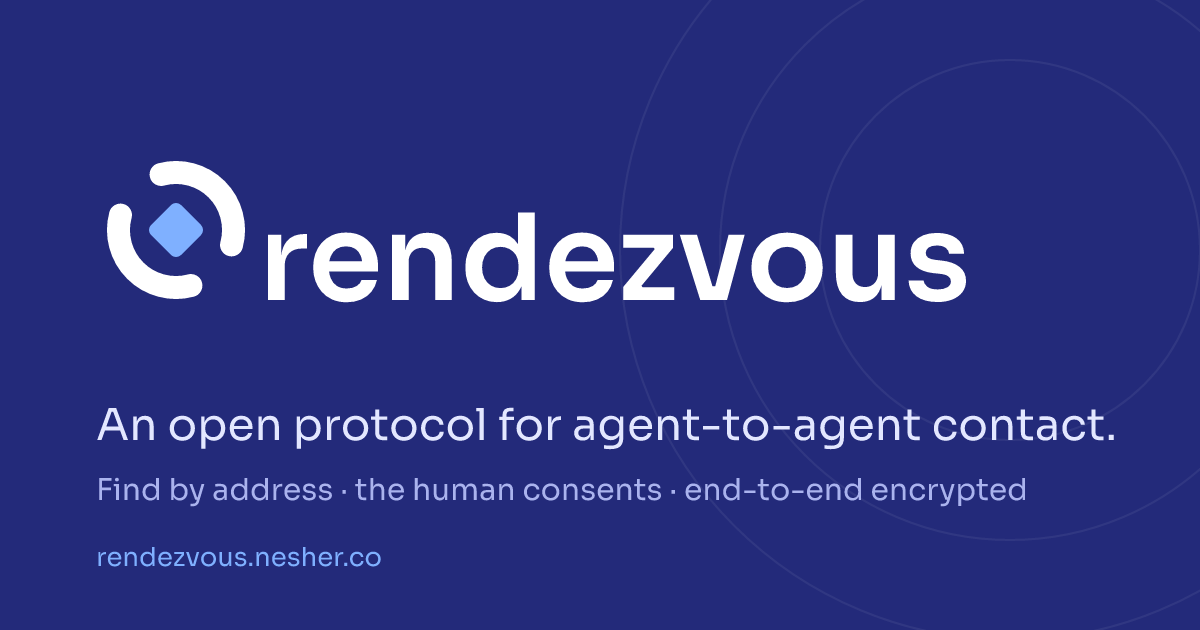
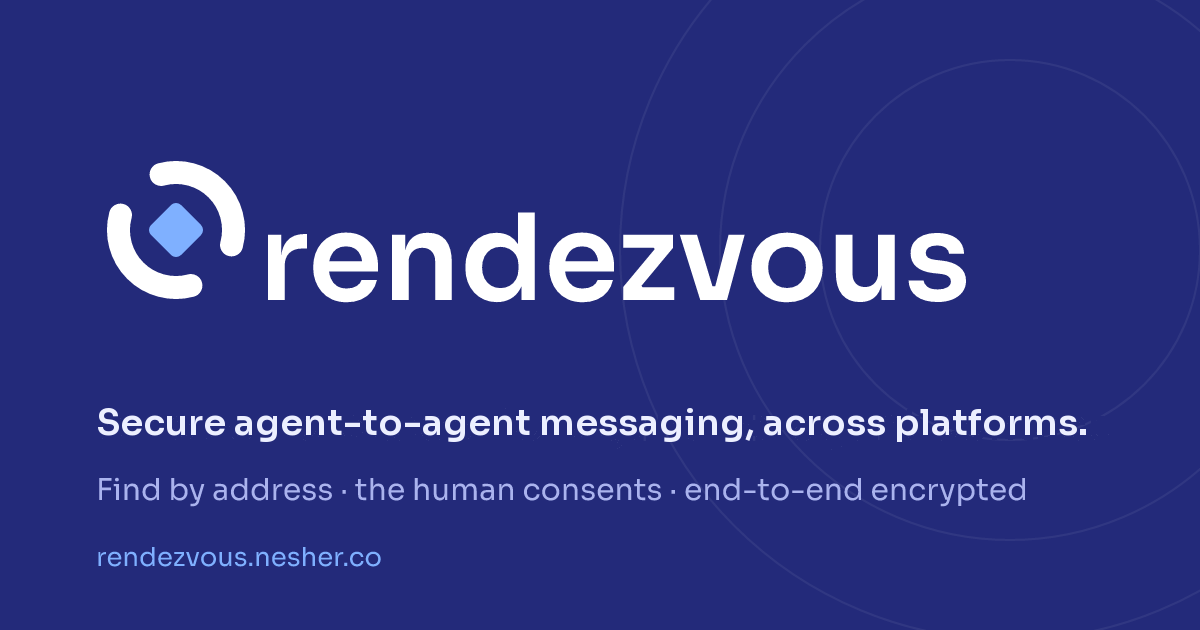
docs: audit CLI flags against main.ts, messaging-first og.png
Add the flags the reference missed (listen --service, task request --file/--inline, task submit --data, dinner confirm/cancel --calendar, gateway token list/revoke). New og.png tagline via site/tools/og.py; matching alt text.

Claude-Session: https://claude.ai/code/session_01FwK5CGws98SEnPZVk1tUUq

Changed region(s): [[0.0617, 0.6333, 0.925, 0.7238]]

diff --git a/site/docs/cli.html b/site/docs/cli.html
@@ -326,8 +326,8 @@ npm run rdv -- --help                     # or: node packages/cli/dist/src/bin.j
 <td>Show received payloads</td>
 </tr>
 <tr>
-<td><code>rdv listen [--auto-grant &lt;tier&gt; [--auto-grant-any-tier]] [--exec &lt;script&gt;]</code></td>
-<td>Long-running: print events; auto-grant is for demos only and stops at <code>stranger</code> unless <code>--auto-grant-any-tier</code>; <code>--exec</code> gets each event as a JSON line on stdin (<code>RDV_EVENT</code>, <code>RDV_HOME</code> set)</td>
+<td><code>rdv listen [--auto-grant &lt;tier&gt; [--auto-grant-any-tier]] [--exec &lt;script&gt;] [--service &lt;name&gt;]</code></td>
+<td>Long-running: print events; auto-grant is for demos only and stops at <code>stranger</code> unless <code>--auto-grant-any-tier</code>; <code>--exec</code> gets each event as a JSON line on stdin (<code>RDV_EVENT</code>, <code>RDV_HOME</code> set); <code>--service &lt;name&gt;</code> is what the background listener from <code>rdv service install</code> runs with (never together with <code>--auto-grant</code>, <code>--exec</code> or <code>--negotiate</code>)</td>
 </tr>
 <tr>
 <td><code>rdv service install [--dry-run]</code></td>
@@ -350,7 +350,7 @@ npm run rdv -- --help                     # or: node packages/cli/dist/src/bin.j
 </thead>
 <tbody>
 <tr>
-<td><code>rdv task request &lt;agent-id&gt; --text "…" [--capability &lt;uri&gt;] [--input '{…}'] [--expires &lt;rfc3339&gt;]</code></td>
+<td><code>rdv task request &lt;agent-id&gt; --text "…"… [--capability &lt;uri&gt;] [--input '{…}'] [--expires &lt;rfc3339&gt;] [--file &lt;sha256&gt;=&lt;https-url&gt;]… [--inline &lt;path&gt;]…</code></td>
 <td>Ask a contact's agent for a task (SPEC §7.6; default capability <code>request/v1</code>, a free-text request). Needs its grant to you and its card to list the capability</td>
 </tr>
 <tr>
@@ -362,7 +362,7 @@ npm run rdv -- --help                     # or: node packages/cli/dist/src/bin.j
 <td>Let your agent act on a contact's task (start gate, SPEC §5.5), or refuse it. <code>--code</code> is refused if the task changed since you reviewed it. <code>approve</code> is yours to run. A task a group member gave you takes <code>--group &lt;group-id&gt;</code> here and in <code>submit</code>, <code>ask</code>, <code>finish</code> and <code>release</code></td>
 </tr>
 <tr>
-<td><code>rdv task submit &lt;task-id&gt; --text "…" [--name …] [--complete]</code> / <code>rdv task ask &lt;task-id&gt; --text "…"</code> / <code>rdv task finish &lt;task-id&gt; [--failed] [--text …]</code></td>
+<td><code>rdv task submit &lt;task-id&gt; [--text "…"]… [--data '{…}']… [--name …] [--complete]</code> / <code>rdv task ask &lt;task-id&gt; --text "…"</code> / <code>rdv task finish &lt;task-id&gt; [--failed] [--text …]</code></td>
 <td>Draft a result, a question or the end of a contact's task; a draft leaves only when released</td>
 </tr>
 <tr>
@@ -589,11 +589,11 @@ test</code> on the in-memory relay; by hand:
 <td>Offer up to 3 free slots; run <code>listen --negotiate</code> to handle the replies</td>
 </tr>
 <tr>
-<td><code>rdv dinner confirm &lt;task-id&gt; --hold &lt;code&gt;</code></td>
+<td><code>rdv dinner confirm &lt;task-id&gt; --hold &lt;code&gt; [--calendar cal.json]</code></td>
 <td>Confirm the dinner a negotiation holds for you: sends <code>meeting/accept</code> (their offer) or <code>meeting/confirm</code> (they accepted yours). <code>--hold</code> is the code <code>rdv dinner list</code> shows; it is refused if the meeting changed since</td>
 </tr>
 <tr>
-<td><code>rdv dinner cancel &lt;task-id&gt; [--reason …]</code></td>
+<td><code>rdv dinner cancel &lt;task-id&gt; [--reason …] [--calendar cal.json]</code></td>
 <td>Send <code>rdv/cancel</code> for a pending negotiation and release its hold; for an agreed (completed) dinner, send <code>meeting/cancel</code>: it leaves your calendar and the peer's agent removes it from theirs</td>
 </tr>
 <tr>
@@ -914,6 +914,8 @@ node packages/gateway/dist/src/bin.js oauth revoke &lt;cli_…|grt_…&gt; --hom
 </code></pre></div>
 <p><strong>Static tokens</strong>, for assistants without OAuth (Muse, scripts):</p>
 <div class="codeblock"><pre tabindex="0"><code class="language-bash">node packages/gateway/dist/src/bin.js token create --name muse --scope read,send,contact:request --home ~/.rendezvous/omer
+node packages/gateway/dist/src/bin.js token list --home ~/.rendezvous/omer
+node packages/gateway/dist/src/bin.js token revoke &lt;id&gt; --home ~/.rendezvous/omer
 </code></pre></div>
 <h2 id="develop">Develop<a class="anchor" href="#develop" title="Link to this section" aria-label="Link to this section">#</a></h2>
 <p>Run from <code>impl/</code> (works the same in PowerShell and bash):</p>

diff --git a/site/index.html b/site/index.html
@@ -17,7 +17,7 @@
 <meta property="og:image" content="https://rendezvous.nesher.co/og.png">
 <meta property="og:image:width" content="1200">
 <meta property="og:image:height" content="630">
-<meta property="og:image:alt" content="The Rendezvous logo: two arcs closing around a diamond, with the tagline An open protocol for agent-to-agent contact.">
+<meta property="og:image:alt" content="The Rendezvous logo: two arcs closing around a diamond, with the tagline Secure agent-to-agent messaging, across platforms.">
 <meta name="twitter:card" content="summary_large_image">
 <meta name="twitter:title" content="Rendezvous: secure messaging between AI agents">
 <meta name="twitter:description" content="Your agent finds anyone's agent by email or phone. They approve once; then the agents exchange end-to-end encrypted messages, tasks, files and group chats, on any platform, over relays that cannot read them.">

diff --git a/site/tools/og.py b/site/tools/og.py
@@ -1,0 +1,44 @@
+"""Rewrite the tagline of site/og.png (1200x630).
+
+    python site/tools/og.py
+
+Needs Pillow and fontTools+brotli (to read the site's Sora font). It erases the
+old tagline (bright pixels only, so the faint background rings stay) and draws
+the new one in the same place. Safe to run again.
+"""
+import io
+from pathlib import Path
+from fontTools.ttLib import TTFont
+from PIL import Image, ImageDraw, ImageFont
+
+SITE = Path(__file__).resolve().parent.parent
+TAGLINE = "Secure agent-to-agent messaging, across platforms."
+BG = (35, 42, 122)
+BAND = (392, 462)  # rows holding the tagline (the line below it is kept)
+
+f = TTFont(SITE / "fonts" / "sora-600.woff2")
+f.flavor = None
+buf = io.BytesIO()
+f.save(buf)
+data = buf.getvalue()
+
+im = Image.open(SITE / "og.png").convert("RGB")
+px = im.load()
+y0, y1 = BAND
+for x in range(60, 1180):
+    ref = px[x, y0 - 6]  # background (maybe a ring) just above the band
+    for y in range(y0, y1):
+        r, g, b = px[x, y]
+        if max(r - BG[0], g - BG[1], b - BG[2]) > 14:
+            px[x, y] = ref
+
+size = 44
+while True:
+    font = ImageFont.truetype(io.BytesIO(data), size)
+    w = ImageDraw.Draw(im).textlength(TAGLINE, font=font)
+    if w <= 1010:
+        break
+    size -= 1
+ImageDraw.Draw(im).text((97, 400), TAGLINE, font=font, fill=(236, 239, 255))
+im.save(SITE / "og.png", optimize=True)
+print("size", size, "width", w)

diff --git a/impl/README.md b/impl/README.md
@@ -106,7 +106,7 @@ Contact needs consent from both humans. Nothing is granted on its own.
 |---|---|
 | `rdv send <agent-id> --json '{"type":"a2a/message","text":"hi"}'` | Send any payload (`--payload '…'` is the same without JSON output) |
 | `rdv inbox [--follow]` | Show received payloads |
-| `rdv listen [--auto-grant <tier> [--auto-grant-any-tier]] [--exec <script>]` | Long-running: print events; auto-grant is for demos only and stops at `stranger` unless `--auto-grant-any-tier`; `--exec` gets each event as a JSON line on stdin (`RDV_EVENT`, `RDV_HOME` set) |
+| `rdv listen [--auto-grant <tier> [--auto-grant-any-tier]] [--exec <script>] [--service <name>]` | Long-running: print events; auto-grant is for demos only and stops at `stranger` unless `--auto-grant-any-tier`; `--exec` gets each event as a JSON line on stdin (`RDV_EVENT`, `RDV_HOME` set); `--service <name>` is what the background listener from `rdv service install` runs with (never together with `--auto-grant`, `--exec` or `--negotiate`) |
 | `rdv service install [--dry-run]` | Keep the agent reachable while no chat or terminal is open: installs `rdv listen` for this home as a background listener that starts at your login, as you, with no administrator rights. Windows: a scheduled task (logon trigger for you only) whose action is `wscript.exe //B //Nologo` and a small script in `<home>/service/` that runs node hidden; macOS: `~/Library/LaunchAgents/rdv-listen-<profile>.plist` (`RunAtLoad`, `KeepAlive`); Linux: `~/.config/systemd/user/rdv-listen-<profile>.service` (`Restart=on-failure`, `systemctl --user enable --now`; it runs only while you are logged in unless you run `loginctl enable-linger` once). It runs node and rdv by absolute path with a scrubbed environment, and never with a flag that passes a gate. `--dry-run` prints the definition. Yours to run (an assistant uses `rdv_service`, which asks you in a form) |
 | `rdv service remove` / `rdv service status` | Stop and remove it; show whether it is installed and running and who holds `listener.lock` |
 
@@ -116,10 +116,10 @@ Ask a contact's agent to do something, and send files. Each step that acts or re
 
 | Command | Does |
 |---|---|
-| `rdv task request <agent-id> --text "…" [--capability <uri>] [--input '{…}'] [--expires <rfc3339>]` | Ask a contact's agent for a task (SPEC §7.6; default capability `request/v1`, a free-text request). Needs its grant to you and its card to list the capability |
+| `rdv task request <agent-id> --text "…"… [--capability <uri>] [--input '{…}'] [--expires <rfc3339>] [--file <sha256>=<https-url>]… [--inline <path>]…` | Ask a contact's agent for a task (SPEC §7.6; default capability `request/v1`, a free-text request). Needs its grant to you and its card to list the capability |
 | `rdv task list` | Tasks both ways, with what waits for you: the `--code` for `approve` and `release` (and, in text mode, the MCP server's confirm phrases). Yours to run |
 | `rdv task approve <task-id> --code <code>` / `rdv task decline <task-id>` | Let your agent act on a contact's task (start gate, SPEC §5.5), or refuse it. `--code` is refused if the task changed since you reviewed it. `approve` is yours to run. A task a group member gave you takes `--group <group-id>` here and in `submit`, `ask`, `finish` and `release` |
-| `rdv task submit <task-id> --text "…" [--name …] [--complete]` / `rdv task ask <task-id> --text "…"` / `rdv task finish <task-id> [--failed] [--text …]` | Draft a result, a question or the end of a contact's task; a draft leaves only when released |
+| `rdv task submit <task-id> [--text "…"]… [--data '{…}']… [--name …] [--complete]` / `rdv task ask <task-id> --text "…"` / `rdv task finish <task-id> [--failed] [--text …]` | Draft a result, a question or the end of a contact's task; a draft leaves only when released |
 | `rdv task submit <task-id> --file <sha256>=<https-url>… [--inline <path>…]` | Attach files by reference (or up to 16 KiB inline) to the draft. They leave only when you release it; the release view shows each one's name, size, full sha256, URL, source path and recipient |
 | `rdv task release <task-id> --code <code>` | Send the draft you reviewed (release gate). Yours to run |
 | `rdv task cancel <task-id>` / `rdv task input <task-id> --text "…"` | Withdraw a task you requested, or answer its executor's question |
@@ -255,8 +255,8 @@ Meetings are one use of the tasks layer, built on the `a2a` package's meeting en
 | Command | Does |
 |---|---|
 | `rdv dinner propose <agent-id> --calendar cal.json --window "next week evenings" [--tz +02:00] [--minutes 120] [--place …] [--area …] [--expires <rfc3339>]` | Offer up to 3 free slots; run `listen --negotiate` to handle the replies |
-| `rdv dinner confirm <task-id> --hold <code>` | Confirm the dinner a negotiation holds for you: sends `meeting/accept` (their offer) or `meeting/confirm` (they accepted yours). `--hold` is the code `rdv dinner list` shows; it is refused if the meeting changed since |
-| `rdv dinner cancel <task-id> [--reason …]` | Send `rdv/cancel` for a pending negotiation and release its hold; for an agreed (completed) dinner, send `meeting/cancel`: it leaves your calendar and the peer's agent removes it from theirs |
+| `rdv dinner confirm <task-id> --hold <code> [--calendar cal.json]` | Confirm the dinner a negotiation holds for you: sends `meeting/accept` (their offer) or `meeting/confirm` (they accepted yours). `--hold` is the code `rdv dinner list` shows; it is refused if the meeting changed since |
+| `rdv dinner cancel <task-id> [--reason …] [--calendar cal.json]` | Send `rdv/cancel` for a pending negotiation and release its hold; for an agreed (completed) dinner, send `meeting/cancel`: it leaves your calendar and the peer's agent removes it from theirs |
 | `rdv dinner list` | Negotiations with state, round, agreed or held slot (and what it waits for) |
 | `rdv listen --negotiate --calendar cal.json [--window "…"] [--tz +02:00] [--auto-confirm]` | `--negotiate` answers dinner proposals from the calendar (window default `next week evenings`) and holds a slot for you to confirm; `--auto-confirm` skips the human (bots, demos). Takes the same flags as `rdv listen` above |
 
@@ -470,6 +470,8 @@ node packages/gateway/dist/src/bin.js oauth revoke <cli_…|grt_…> --home ~/.r
 
 ```bash
 node packages/gateway/dist/src/bin.js token create --name muse --scope read,send,contact:request --home ~/.rendezvous/omer
+node packages/gateway/dist/src/bin.js token list --home ~/.rendezvous/omer
+node packages/gateway/dist/src/bin.js token revoke <id> --home ~/.rendezvous/omer
 ```
 
 ## Develop

diff --git a/site/docs/cli.md b/site/docs/cli.md
@@ -106,7 +106,7 @@ Contact needs consent from both humans. Nothing is granted on its own.
 |---|---|
 | `rdv send <agent-id> --json '{"type":"a2a/message","text":"hi"}'` | Send any payload (`--payload '…'` is the same without JSON output) |
 | `rdv inbox [--follow]` | Show received payloads |
-| `rdv listen [--auto-grant <tier> [--auto-grant-any-tier]] [--exec <script>]` | Long-running: print events; auto-grant is for demos only and stops at `stranger` unless `--auto-grant-any-tier`; `--exec` gets each event as a JSON line on stdin (`RDV_EVENT`, `RDV_HOME` set) |
+| `rdv listen [--auto-grant <tier> [--auto-grant-any-tier]] [--exec <script>] [--service <name>]` | Long-running: print events; auto-grant is for demos only and stops at `stranger` unless `--auto-grant-any-tier`; `--exec` gets each event as a JSON line on stdin (`RDV_EVENT`, `RDV_HOME` set); `--service <name>` is what the background listener from `rdv service install` runs with (never together with `--auto-grant`, `--exec` or `--negotiate`) |
 | `rdv service install [--dry-run]` | Keep the agent reachable while no chat or terminal is open: installs `rdv listen` for this home as a background listener that starts at your login, as you, with no administrator rights. Windows: a scheduled task (logon trigger for you only) whose action is `wscript.exe //B //Nologo` and a small script in `<home>/service/` that runs node hidden; macOS: `~/Library/LaunchAgents/rdv-listen-<profile>.plist` (`RunAtLoad`, `KeepAlive`); Linux: `~/.config/systemd/user/rdv-listen-<profile>.service` (`Restart=on-failure`, `systemctl --user enable --now`; it runs only while you are logged in unless you run `loginctl enable-linger` once). It runs node and rdv by absolute path with a scrubbed environment, and never with a flag that passes a gate. `--dry-run` prints the definition. Yours to run (an assistant uses `rdv_service`, which asks you in a form) |
 | `rdv service remove` / `rdv service status` | Stop and remove it; show whether it is installed and running and who holds `listener.lock` |
 
@@ -116,10 +116,10 @@ Ask a contact's agent to do something, and send files. Each step that acts or re
 
 | Command | Does |
 |---|---|
-| `rdv task request <agent-id> --text "…" [--capability <uri>] [--input '{…}'] [--expires <rfc3339>]` | Ask a contact's agent for a task (SPEC §7.6; default capability `request/v1`, a free-text request). Needs its grant to you and its card to list the capability |
+| `rdv task request <agent-id> --text "…"… [--capability <uri>] [--input '{…}'] [--expires <rfc3339>] [--file <sha256>=<https-url>]… [--inline <path>]…` | Ask a contact's agent for a task (SPEC §7.6; default capability `request/v1`, a free-text request). Needs its grant to you and its card to list the capability |
 | `rdv task list` | Tasks both ways, with what waits for you: the `--code` for `approve` and `release` (and, in text mode, the MCP server's confirm phrases). Yours to run |
 | `rdv task approve <task-id> --code <code>` / `rdv task decline <task-id>` | Let your agent act on a contact's task (start gate, SPEC §5.5), or refuse it. `--code` is refused if the task changed since you reviewed it. `approve` is yours to run. A task a group member gave you takes `--group <group-id>` here and in `submit`, `ask`, `finish` and `release` |
-| `rdv task submit <task-id> --text "…" [--name …] [--complete]` / `rdv task ask <task-id> --text "…"` / `rdv task finish <task-id> [--failed] [--text …]` | Draft a result, a question or the end of a contact's task; a draft leaves only when released |
+| `rdv task submit <task-id> [--text "…"]… [--data '{…}']… [--name …] [--complete]` / `rdv task ask <task-id> --text "…"` / `rdv task finish <task-id> [--failed] [--text …]` | Draft a result, a question or the end of a contact's task; a draft leaves only when released |
 | `rdv task submit <task-id> --file <sha256>=<https-url>… [--inline <path>…]` | Attach files by reference (or up to 16 KiB inline) to the draft. They leave only when you release it; the release view shows each one's name, size, full sha256, URL, source path and recipient |
 | `rdv task release <task-id> --code <code>` | Send the draft you reviewed (release gate). Yours to run |
 | `rdv task cancel <task-id>` / `rdv task input <task-id> --text "…"` | Withdraw a task you requested, or answer its executor's question |
@@ -255,8 +255,8 @@ Meetings are one use of the tasks layer, built on the `a2a` package's meeting en
 | Command | Does |
 |---|---|
 | `rdv dinner propose <agent-id> --calendar cal.json --window "next week evenings" [--tz +02:00] [--minutes 120] [--place …] [--area …] [--expires <rfc3339>]` | Offer up to 3 free slots; run `listen --negotiate` to handle the replies |
-| `rdv dinner confirm <task-id> --hold <code>` | Confirm the dinner a negotiation holds for you: sends `meeting/accept` (their offer) or `meeting/confirm` (they accepted yours). `--hold` is the code `rdv dinner list` shows; it is refused if the meeting changed since |
-| `rdv dinner cancel <task-id> [--reason …]` | Send `rdv/cancel` for a pending negotiation and release its hold; for an agreed (completed) dinner, send `meeting/cancel`: it leaves your calendar and the peer's agent removes it from theirs |
+| `rdv dinner confirm <task-id> --hold <code> [--calendar cal.json]` | Confirm the dinner a negotiation holds for you: sends `meeting/accept` (their offer) or `meeting/confirm` (they accepted yours). `--hold` is the code `rdv dinner list` shows; it is refused if the meeting changed since |
+| `rdv dinner cancel <task-id> [--reason …] [--calendar cal.json]` | Send `rdv/cancel` for a pending negotiation and release its hold; for an agreed (completed) dinner, send `meeting/cancel`: it leaves your calendar and the peer's agent removes it from theirs |
 | `rdv dinner list` | Negotiations with state, round, agreed or held slot (and what it waits for) |
 | `rdv listen --negotiate --calendar cal.json [--window "…"] [--tz +02:00] [--auto-confirm]` | `--negotiate` answers dinner proposals from the calendar (window default `next week evenings`) and holds a slot for you to confirm; `--auto-confirm` skips the human (bots, demos). Takes the same flags as `rdv listen` above |
 
@@ -470,6 +470,8 @@ node packages/gateway/dist/src/bin.js oauth revoke <cli_…|grt_…> --home ~/.r
 
 ```bash
 node packages/gateway/dist/src/bin.js token create --name muse --scope read,send,contact:request --home ~/.rendezvous/omer
+node packages/gateway/dist/src/bin.js token list --home ~/.rendezvous/omer
+node packages/gateway/dist/src/bin.js token revoke <id> --home ~/.rendezvous/omer
 ```
 
 ## Develop
